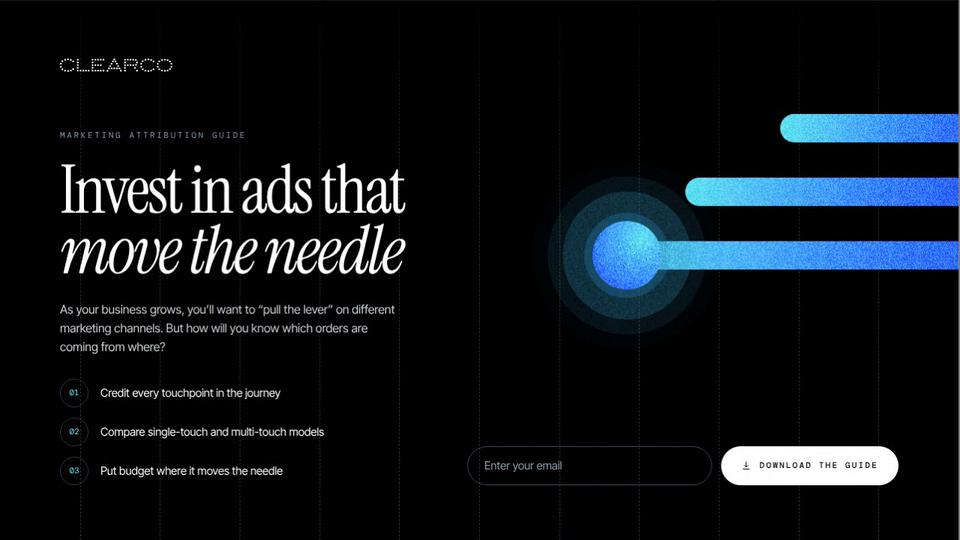
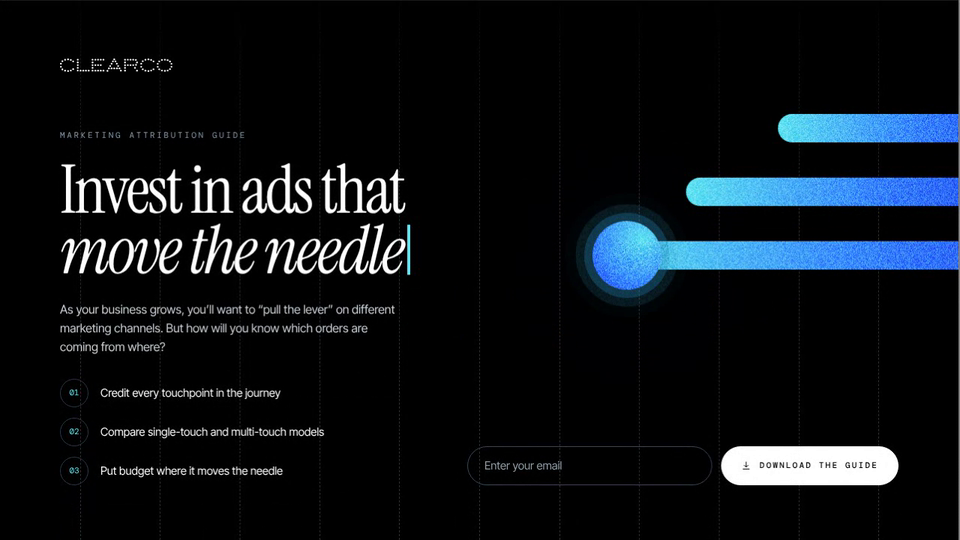
Attribution Guide: hero title types out, backspaces and swaps its last words
Claude-Session: https://claude.ai/code/session_01AHeBdyii5AjQS77wpPRRok

diff --git a/clearco-attribution-guide/index.html b/clearco-attribution-guide/index.html
@@ -99,6 +99,11 @@ footer .btn{--fill:#040a10}
 .hero .logo{width:150px;margin:0 0 clamp(40px,6vw,76px)}
 .hero .mono{color:#8fa0ad}
 .hero h1{font:400 clamp(52px,7vw,100px)/.9 var(--serif);letter-spacing:-.035em;margin:26px 0 26px}
+.hero h1 .tw{display:block;min-height:.9em;white-space:nowrap}
+.caret{display:inline-block;width:.04em;height:.74em;margin-left:.07em;background:var(--cyan);vertical-align:-.02em;animation:blink 1.05s steps(1) infinite}
+.caret.typing{animation:none}
+@keyframes blink{50%{opacity:0}}
+@media (prefers-reduced-motion:reduce){.caret{display:none}}
 .hero .lede{font:400 16px/1.55 var(--sans);max-width:29em;margin:0 0 30px;color:#cdd6dc}
 .points{list-style:none;padding:0;display:grid;gap:14px;margin:0}
 .points li{display:flex;gap:16px;align-items:center;font-size:15px;line-height:1.4}
@@ -292,7 +297,7 @@ footer .sign{margin-top:28px;color:#8fa0ad;font-size:14px}
     <div class="copy">
       <svg class="logo" xmlns="http://www.w3.org/2000/svg" viewBox="-489.3 -58.1 978.8 116.8" role="img" aria-label="Clearco"><circle cx="-481.7" cy="-13.1" r="7.63"/><circle cx="-481.7" cy="14.1" r="7.63"/><circle cx="-468.7" cy="-34.5" r="7.63"/><circle cx="-468.7" cy="36.5" r="7.63"/><circle cx="-445.2" cy="-47.1" r="7.63"/><circle cx="-445.2" cy="47.6" r="7.63"/><circle cx="-419.1" cy="-50.5" r="7.63"/><circle cx="-419.1" cy="51.0" r="7.63"/><circle cx="-395.3" cy="-45.6" r="7.63"/><circle cx="-395.3" cy="46.7" r="7.63"/><circle cx="-374.7" cy="-32.9" r="7.63"/><circle cx="-374.7" cy="34.3" r="7.63"/><circle cx="-334.8" cy="-47.6" r="7.63"/><circle cx="-334.8" cy="-23.8" r="7.63"/><circle cx="-334.8" cy="-0.4" r="7.63"/><circle cx="-334.8" cy="23.7" r="7.63"/><circle cx="-334.8" cy="46.7" r="7.63"/><circle cx="-310.3" cy="47.6" r="7.63"/><circle cx="-286.6" cy="47.6" r="7.63"/><circle cx="-263.5" cy="47.6" r="7.63"/><circle cx="-239.7" cy="47.6" r="7.63"/><circle cx="-206.0" cy="-47.6" r="7.63"/><circle cx="-206.0" cy="-23.8" r="7.63"/><circle cx="-206.0" cy="-0.4" r="7.63"/><circle cx="-206.0" cy="23.7" r="7.63"/><circle cx="-206.0" cy="47.6" r="7.63"/><circle cx="-181.3" cy="-47.6" r="7.63"/><circle cx="-181.3" cy="-0.4" r="7.63"/><circle cx="-181.3" cy="47.6" r="7.63"/><circle cx="-158.0" cy="-47.6" r="7.63"/><circle cx="-158.0" cy="-0.4" r="7.63"/><circle cx="-158.0" cy="47.6" r="7.63"/><circle cx="-134.5" cy="-47.6" r="7.63"/><circle cx="-134.5" cy="-0.4" r="7.63"/><circle cx="-134.5" cy="47.6" r="7.63"/><circle cx="-111.2" cy="-47.6" r="7.63"/><circle cx="-111.2" cy="47.6" r="7.63"/><circle cx="-76.2" cy="49.9" r="7.63"/><circle cx="-63.7" cy="28.1" r="7.63"/><circle cx="-52.1" cy="7.7" r="7.63"/><circle cx="-40.1" cy="-13.1" r="7.63"/><circle cx="-40.1" cy="28.1" r="7.63"/><circle cx="-28.5" cy="-32.9" r="7.63"/><circle cx="-17.0" cy="-50.5" r="7.63"/><circle cx="-17.0" cy="28.1" r="7.63"/><circle cx="-6.2" cy="-32.9" r="7.63"/><circle cx="5.2" cy="-13.1" r="7.63"/><circle cx="6.8" cy="28.1" r="7.63"/><circle cx="16.9" cy="7.7" r="7.63"/><circle cx="28.7" cy="28.1" r="7.63"/><circle cx="40.6" cy="47.6" r="7.63"/><circle cx="76.9" cy="-47.1" r="7.63"/><circle cx="76.9" cy="-23.8" r="7.63"/><circle cx="76.9" cy="0.4" r="7.63"/><circle cx="76.9" cy="23.7" r="7.63"/><circle cx="76.9" cy="47.6" r="7.63"/><circle cx="101.3" cy="-47.6" r="7.63"/><circle cx="101.3" cy="-0.4" r="7.63"/><circle cx="124.8" cy="-47.6" r="7.63"/><circle cx="124.8" cy="-0.4" r="7.63"/><circle cx="148.2" cy="-47.6" r="7.63"/><circle cx="148.2" cy="-0.4" r="7.63"/><circle cx="163.6" cy="23.7" r="7.63"/><circle cx="171.0" cy="-45.6" r="7.63"/><circle cx="172.6" cy="-2.5" r="7.63"/><circle cx="181.5" cy="-23.8" r="7.63"/><circle cx="181.5" cy="47.6" r="7.63"/><circle cx="218.0" cy="-13.1" r="7.63"/><circle cx="218.0" cy="14.1" r="7.63"/><circle cx="231.4" cy="-34.5" r="7.63"/><circle cx="231.4" cy="35.4" r="7.63"/><circle cx="254.8" cy="-47.1" r="7.63"/><circle cx="254.8" cy="47.6" r="7.63"/><circle cx="280.8" cy="-50.5" r="7.63"/><circle cx="280.8" cy="51.0" r="7.63"/><circle cx="304.4" cy="-45.6" r="7.63"/><circle cx="304.4" cy="46.7" r="7.63"/><circle cx="325.4" cy="-32.9" r="7.63"/><circle cx="325.4" cy="35.4" r="7.63"/><circle cx="362.0" cy="-11.6" r="7.63"/><circle cx="362.0" cy="14.1" r="7.63"/><circle cx="375.2" cy="-32.9" r="7.63"/><circle cx="375.2" cy="35.4" r="7.63"/><circle cx="398.8" cy="-45.6" r="7.63"/><circle cx="398.8" cy="46.7" r="7.63"/><circle cx="424.6" cy="-47.6" r="7.63"/><circle cx="424.6" cy="49.9" r="7.63"/><circle cx="448.3" cy="-44.0" r="7.63"/><circle cx="448.3" cy="46.7" r="7.63"/><circle cx="469.0" cy="-31.9" r="7.63"/><circle cx="469.0" cy="34.3" r="7.63"/><circle cx="481.8" cy="-11.6" r="7.63"/><circle cx="481.8" cy="14.1" r="7.63"/></svg>
       <p class="mono">Marketing attribution guide</p>
-      <h1>Invest in ads that <em>move the needle</em></h1>
+      <h1 aria-label="Invest in ads that move the needle">Invest in ads that <em class="tw"><span class="tx">move the needle</span><span class="caret" aria-hidden="true"></span></em></h1>
       <p class="lede">As your business grows, you’ll want to “pull the lever” on different marketing channels. But how will you know which orders are coming from where?</p>
       <ul class="points">
         <li><i>01</i><span>Credit every touchpoint in the journey</span></li>
@@ -623,6 +628,26 @@ footer .sign{margin-top:28px;color:#8fa0ad;font-size:14px}
     size();
     if ('ResizeObserver' in window) new ResizeObserver(size).observe(cv);
     vis(cv, function(v){ on = v; if (v && !reduce && !raf) raf = requestAnimationFrame(frame); });
+  })();
+
+  /* the hero title's last words are typed out, backspaced and replaced by two other ideas from the guide, then it loops */
+  (function(){
+    var h = document.querySelector('.hero h1 .tw');
+    if (!h || reduce || location.hash === '#still-title') return;
+    var tx = h.querySelector('.tx'), caret = h.querySelector('.caret'), words = ['move the needle', 'earn the credit', 'close the sale'], i = 0, k = 0, on = true;
+    vis(document.querySelector('.hero'), function(v){ on = v; });
+    function wait(ms, fn){ setTimeout(function(){ if (!on) wait(400, fn); else fn(); }, ms); }
+    function erase(){
+      var t = tx.textContent; caret.classList.add('typing');
+      if (t.length) { tx.textContent = t.slice(0, -1); wait(34 + Math.random() * 28, erase); }
+      else { i = (i + 1) % words.length; k = 0; wait(420, type); }
+    }
+    function type(){
+      var w = words[i];
+      if (k < w.length) { caret.classList.add('typing'); tx.textContent = w.slice(0, ++k); wait(66 + Math.random() * 58, type); }
+      else { caret.classList.remove('typing'); wait(3000, erase); }
+    }
+    wait(3400, erase);
   })();
 
   /* one clock for every pill timeline */

diff --git a/tools/record-clips.js b/tools/record-clips.js
@@ -26,7 +26,7 @@ const domClick = (p, sel) => p.evaluate((s) => document.querySelector(s).click()
    Apps that move on their own just wait; the others are driven the way a visitor would use them. */
 const APPS = {
   // the hero pills run on a 8.2 s cycle on their own; wait until the circle has grown so the loop starts on the full composition
-  'clearco-attribution-guide': { vp: [1280, 769], crop: [0, 49, 1280, 720], ready: 1400, run: async () => {} },
+  'clearco-attribution-guide': { vp: [1280, 769], crop: [0, 49, 1280, 720], hash: '#still-title', ready: 1400, run: async () => {} },
   'clearco-logistics-guide': { vp: [1280, 769], crop: [0, 49, 1280, 720], run: async (p) => {
     const t0 = Date.now();
     const go = (id, d) => p.evaluate(([i, o]) => scrollTo(0, document.getElementById(i).offsetTop - 49 + o), [id, d]);
@@ -107,7 +107,7 @@ async function record(name) {
   const errs = [];
   page.on('pageerror', (e) => errs.push(e.message));
   if (A.p5 && process.env.P5_LIB) await page.route('**/p5.min.js', (r) => r.fulfill({ path: process.env.P5_LIB, contentType: 'application/javascript' }));
-  await page.goto('file://' + ROOT + name + '/index.html');
+  await page.goto('file://' + ROOT + name + '/index.html' + (A.hash || ''));
   await page.waitForLoadState('networkidle').catch(() => {});
   if (A.setup) { const c = await A.setup(page); if (Array.isArray(c)) A.crop = c; }
   await page.waitForTimeout(A.ready || 600);
